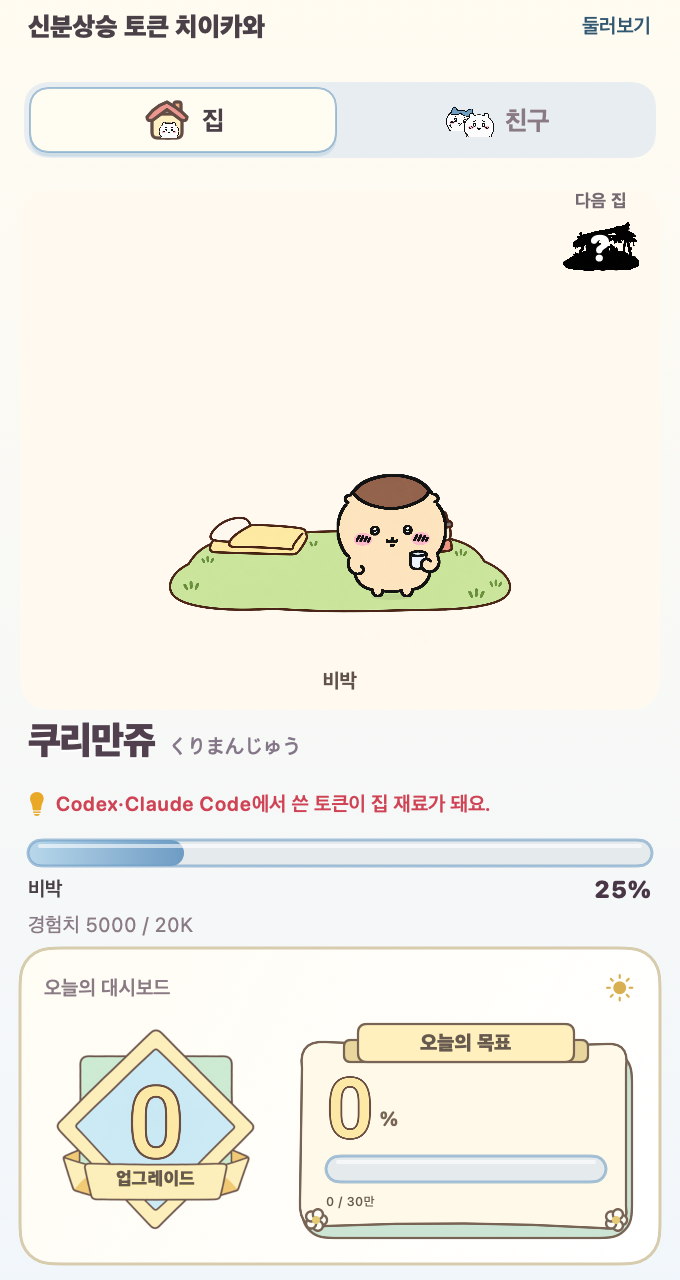
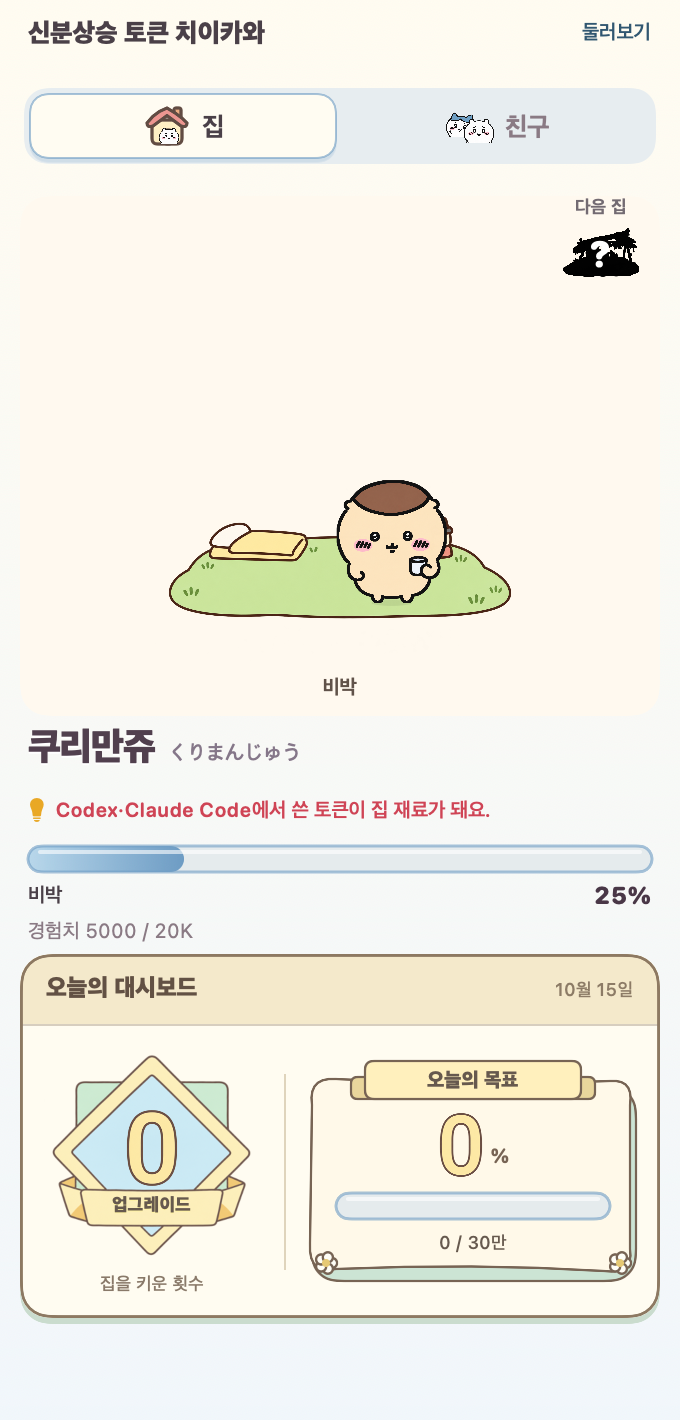
Clarify daily dashboard hierarchy and fit the enlarged scene

diff --git a/Sources/ChiiBar/Previews.swift b/Sources/ChiiBar/Previews.swift
@@ -84,14 +84,14 @@ enum Previews {
             let model = fixtureModel(lastTokenAgo: 60)
             model.state.current = .kurimanju
             model.state.houses[.kurimanju] = House(stage: 1, progress: 5000)
-            save("home", CGSize(width: 340, height: 640), PopoverView(model: model))
+            save("home", CGSize(width: 340, height: 710), PopoverView(model: model))
             save("odds", CGSize(width: 316, height: 510), DrawOddsCard(firstDraw: false).background(Theme.background))
             model.state.houses[.kurimanju] = House(stage: 1, progress: 20000)
-            save("ready", CGSize(width: 340, height: 640), PopoverView(model: model))
+            save("ready", CGSize(width: 340, height: 710), PopoverView(model: model))
             for elapsed in [1.0, 3.6, 5.2] {
                 let session = GachaSession(start: now.addingTimeInterval(-elapsed), result: DrawResult(friend: .kurimanju, outcome: .newFriend))
                 model.gacha = session
-                save("draw_\(elapsed)", CGSize(width: 340, height: 640), PopoverView(model: model))
+                save("draw_\(elapsed)", CGSize(width: 340, height: 710), PopoverView(model: model))
             }
             for (index, friend) in FriendID.allCases.enumerated() {
                 model.state.houses[friend] = House(stage: min(13, index + 5))
@@ -112,7 +112,7 @@ enum Previews {
         if ProcessInfo.processInfo.environment["CHIIBAR_GACHA_ONLY"] == "1" {
             let collection = fixtureModel(lastTokenAgo: 60)
             collection.tab = .friends
-            save("friends_title", CGSize(width: 340, height: 640), PopoverView(model: collection))
+            save("friends_title", CGSize(width: 340, height: 710), PopoverView(model: collection))
             for (index, t) in [0.2, 1.0, 1.8, 3.6].enumerated() {
                 save("gacha_refined_\(index)", GachaArt.size,
                      GachaCanvas(t: t, result: DrawResult(friend: .usagi, outcome: .newFriend)))
@@ -133,13 +133,13 @@ enum Previews {
             }
             let ready = fixtureModel(lastTokenAgo: 60)
             ready.state.houses[.hachiware] = House(stage: 2, progress: HousePlan.cost(ofStage: 3) + HousePlan.cost(ofStage: 4) / 2)
-            save("manual_ready", CGSize(width: 340, height: 640), PopoverView(model: ready))
+            save("manual_ready", CGSize(width: 340, height: 710), PopoverView(model: ready))
             let celebration = fixtureModel(lastTokenAgo: 60)
             celebration.state.houses[.hachiware] = House(stage: 3, progress: 2_000_000)
             celebration.reveal = (3, now.addingTimeInterval(-3.7))
             celebration.upgradeNotice = ("벽돌집 입주!", now.addingTimeInterval(-0.7))
-            save("joyful_complete", CGSize(width: 340, height: 640), PopoverView(model: celebration))
-            save("carryover_notice", CGSize(width: 340, height: 640), PopoverView(model: carryoverModel(elapsed: 2.2)))
+            save("joyful_complete", CGSize(width: 340, height: 710), PopoverView(model: celebration))
+            save("carryover_notice", CGSize(width: 340, height: 710), PopoverView(model: carryoverModel(elapsed: 2.2)))
             renderCarryover(to: out)
             renderAssembly(to: out)
             for e in [0.5, 1.2, 1.8, 2.5, 3.0] {
@@ -236,7 +236,7 @@ enum Previews {
             }
         })
         let demo = AppModel.demo()
-        save("demo_home", CGSize(width: 340, height: 640), PopoverView(model: demo))
+        save("demo_home", CGSize(width: 340, height: 710), PopoverView(model: demo))
         var pet = SceneParams(friend: .hachiware, stage: 6, activity: .tea, t: t0)
         pet.pokeElapsed = 0.45
         pet.bubble = "에헤헤!"
@@ -268,7 +268,7 @@ enum Previews {
         }
         save("gacha_again", GachaArt.size, GachaCanvas(t: 3.6, result: DrawResult(friend: .shisa, outcome: .gift(stage: 5))))
 
-        let popSize = CGSize(width: 340, height: 640)
+        let popSize = CGSize(width: 340, height: 710)
         for (name, ago) in [("busy", 60.0), ("idle", 600.0), ("sleeping", 3600.0)] {
             save("popover_\(name)", popSize, PopoverView(model: fixtureModel(lastTokenAgo: ago)))
         }

diff --git a/Sources/ChiiBar/PopoverView.swift b/Sources/ChiiBar/PopoverView.swift
@@ -94,7 +94,7 @@ struct PopoverView: View {
                 AnyView(PopoverView(model: demoModel, closeDemo: { self.demoModel = nil }))
             }
         }
-        .frame(width: 340, height: 640)
+        .frame(width: 340, height: 710)
         .foregroundStyle(Theme.text)
         .onAppear { model.welcome() }
     }
@@ -351,21 +351,38 @@ struct TodayDashboardView: View {
             let records = (model.state.dailyProgress ?? [:]).values.filter { $0.day == DayKey.of(date) }
             let earned = records.reduce(Int64(0)) { $0 + $1.earned }
             let upgrades = records.reduce(0) { $0 + $1.upgrades }
-            VStack(alignment: .leading, spacing: 10) {
-                HStack {
-                    Text("오늘의 대시보드").font(.system(size: 10, weight: .semibold)).foregroundStyle(Theme.soft)
+            VStack(spacing: 0) {
+                HStack(alignment: .firstTextBaseline) {
+                    Text("오늘의 대시보드")
+                        .font(.custom("AppleSDGothicNeo-Heavy", size: 12))
+                        .foregroundStyle(Ink.rgb(0x625144))
                     Spacer()
-                    Image(systemName: "sun.max.fill").foregroundStyle(Ink.rgb(0xD8AF51))
+                    Text(date, format: .dateTime.month().day().locale(Locale(identifier: "ko_KR")))
+                        .font(.system(size: 9, weight: .medium))
+                        .foregroundStyle(Ink.rgb(0x8C7B66))
                 }
-                HStack(alignment: .center, spacing: 14) {
-                    UpgradeBadge(count: upgrades)
-                        .frame(width: 112)
+                .padding(.horizontal, 13).padding(.vertical, 10)
+                .background(Ink.rgb(0xF4E9CB))
+                Rectangle().fill(Ink.rgb(0x8D7962).opacity(0.35)).frame(height: 1)
+                HStack(alignment: .center, spacing: 10) {
+                    VStack(spacing: 3) {
+                        UpgradeBadge(count: upgrades)
+                        Text("집을 키운 횟수")
+                            .font(.system(size: 9, weight: .medium))
+                            .foregroundStyle(Ink.rgb(0x897969))
+                    }.frame(width: 112)
+                    RoundedRectangle(cornerRadius: 1)
+                        .fill(Ink.rgb(0xCDBF9F).opacity(0.65))
+                        .frame(width: 1, height: 98)
                     DailyGoalCard(earned: earned)
                 }
+                .padding(.horizontal, 10).padding(.vertical, 12)
             }
-            .padding(12)
-            .background(LinearGradient(colors: [Ink.rgb(0xFFFCF3), .white], startPoint: .topLeading, endPoint: .bottomTrailing), in: RoundedRectangle(cornerRadius: 16))
-            .overlay(RoundedRectangle(cornerRadius: 16).stroke(Ink.rgb(0xD8CCAE), lineWidth: 1.5))
+            .background(Ink.rgb(0xFFFCF1))
+            .clipShape(RoundedRectangle(cornerRadius: 15))
+            .overlay(RoundedRectangle(cornerRadius: 15).strokeBorder(Ink.rgb(0x8D7962), lineWidth: 1.4))
+            .compositingGroup()
+            .shadow(color: Ink.rgb(0xCADCCE), radius: 0, y: 3)
             .accessibilityElement(children: .combine)
         }
     }

diff --git a/Sources/ChiiBar/StatusBar.swift b/Sources/ChiiBar/StatusBar.swift
@@ -25,7 +25,7 @@ final class AppDelegate: NSObject, NSApplicationDelegate, NSPopoverDelegate {
 
         popover.behavior = .transient
         popover.delegate = self
-        popover.contentSize = NSSize(width: 340, height: 640)
+        popover.contentSize = NSSize(width: 340, height: 710)
 
         item = NSStatusBar.system.statusItem(withLength: NSStatusItem.squareLength)
         item.autosaveName = "ChiiBar.MainStatusItem"
@@ -53,7 +53,7 @@ final class AppDelegate: NSObject, NSApplicationDelegate, NSPopoverDelegate {
         popover.performClose(nil)
         if let onboardingWindow { onboardingWindow.makeKeyAndOrderFront(nil); NSApp.activate(ignoringOtherApps: true); return }
         let preview = AppModel(state: GameState(now: Date()), stateURL: nil, isDemo: true)
-        let window = NSWindow(contentRect: NSRect(x: 0, y: 0, width: 340, height: 640),
+        let window = NSWindow(contentRect: NSRect(x: 0, y: 0, width: 340, height: 710),
                               styleMask: [.titled, .closable], backing: .buffered, defer: false)
         window.title = "첫 시작 체험 · 실제 진행은 그대로"
         window.isReleasedWhenClosed = false

diff --git a/Sources/ChiiBar/DailyGoalCard.swift b/Sources/ChiiBar/DailyGoalCard.swift
@@ -27,13 +27,14 @@ struct DailyGoalCard: View {
                     .padding(.bottom, 4)
                     .fixedSize()
             }
-            .frame(maxWidth: .infinity, alignment: .leading)
+            .frame(maxWidth: .infinity, alignment: .center)
             .padding(.bottom, 2)
             ProgressTrack(fraction: min(1, ratio), sweepFrom: nil, fixedNow: .distantPast)
                 .accessibilityHidden(true)
             Text("\(amount) / \(Self.target / 10_000)만")
                 .font(.system(size: 9, weight: .medium))
                 .lineLimit(1).minimumScaleFactor(0.7)
+                .frame(maxWidth: .infinity)
         }
         .foregroundStyle(Ink.rgb(0x66594E))
         .padding(.horizontal, 15).padding(.top, 4).padding(.bottom, 15)

diff --git a/README.md b/README.md
@@ -3,7 +3,9 @@
 Claude Code와 Codex를 쓰는 동안, 치이카와 친구가 토큰을 먹고 비박부터 초고층 빌딩 펜트하우스까지 집을 지어 가는 macOS 팬 앱입니다.
 토큰이 쌓여 게이지가 가득 차면 업그레이드 버튼을 눌러 한 단계씩 이사합니다. 남은 경험치는 새 집에서 이어 채워집니다.
 
-**v0.4.18 — 가끔 비와 눈이 찾아오는 집, 반듯한 그림 숫자.**
+**v0.4.19 — 130% 커진 집과 친구, 한눈에 읽히는 오늘의 대시보드.**
+
+현재 집과 친구를 이전보다 130% 크게 표시합니다. 오늘의 대시보드는 제목·날짜 헤더, 업그레이드 횟수와 목표 달성률의 두 영역, 갈색 외곽선으로 묶었습니다. 업그레이드 버튼이 나타나도 하단이 잘리지 않도록 창 높이를 조정했습니다.
 
 비와 눈은 실제 날씨와 관계없는 게임 연출입니다. 20분 주기 중 비는 75초, 눈은 90초 동안 내리고 앞뒤 6초에 걸쳐 부드럽게 바뀝니다. 벽돌집부터는 비를 피하며 친구마다 눈에 폴짝거리거나 추위를 타는 반응이 다릅니다. 표정은 기존 검토된 그림을 사용합니다. 원작의 특정 장면을 재현했다는 뜻은 아닙니다. 햇볕 효과는 없고, 움직임 줄이기 설정에서는 눈·비와 반응 동작이 정지합니다.
 
@@ -31,7 +33,7 @@ brew install --cask kitesik/tap/chiibar
 
 macOS 14 Sonoma 이상이 필요합니다. 배포 파일은 Apple Silicon과 Intel Mac 공용입니다.
 
-1. 위 링크에서 `ChiiBar-0.4.18-universal.zip`을 다운로드합니다.
+1. 위 링크에서 `ChiiBar-0.4.19-universal.zip`을 다운로드합니다.
 2. 압축을 풀고 `ChiiBar.app`을 응용 프로그램 폴더로 옮깁니다.
 3. 앱을 실행하고 화면 상단 메뉴 막대의 작은 캐릭터 아이콘을 누릅니다.
 4. 첫 화면에서 **첫 친구 뽑기**를 누르세요. 무료 뽑기권 1장으로 전체 9명 중 한 친구를 만납니다.
